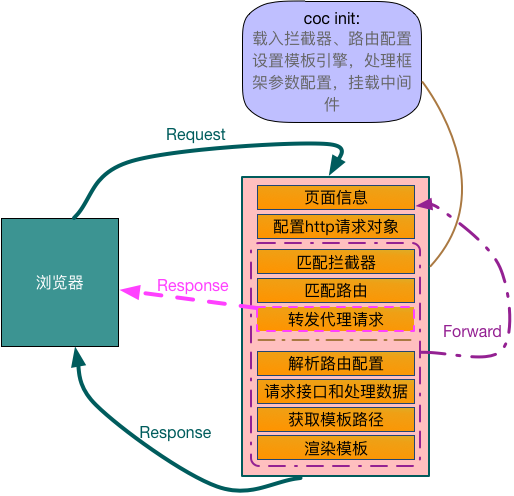
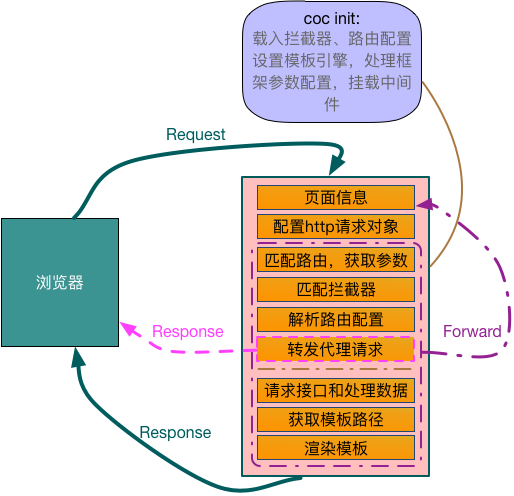
update stage order

diff --git a/libs/core.js b/libs/core.js
@@ -54,7 +54,7 @@ function simpleApiDataName(api) {
 module.exports = (app, args = {}) => {
   const defaultStages = [
     pageInfo, initHttpRequest, matchRouter, handleInterceptor,
-    requestProxy, handleRouter, runTask, getViewPath, render
+    handleRouter, requestProxy, runTask, getViewPath, render
   ];
   // mount see more @ http://expressjs.com/en/4x/api.html#path-examples
   const {
